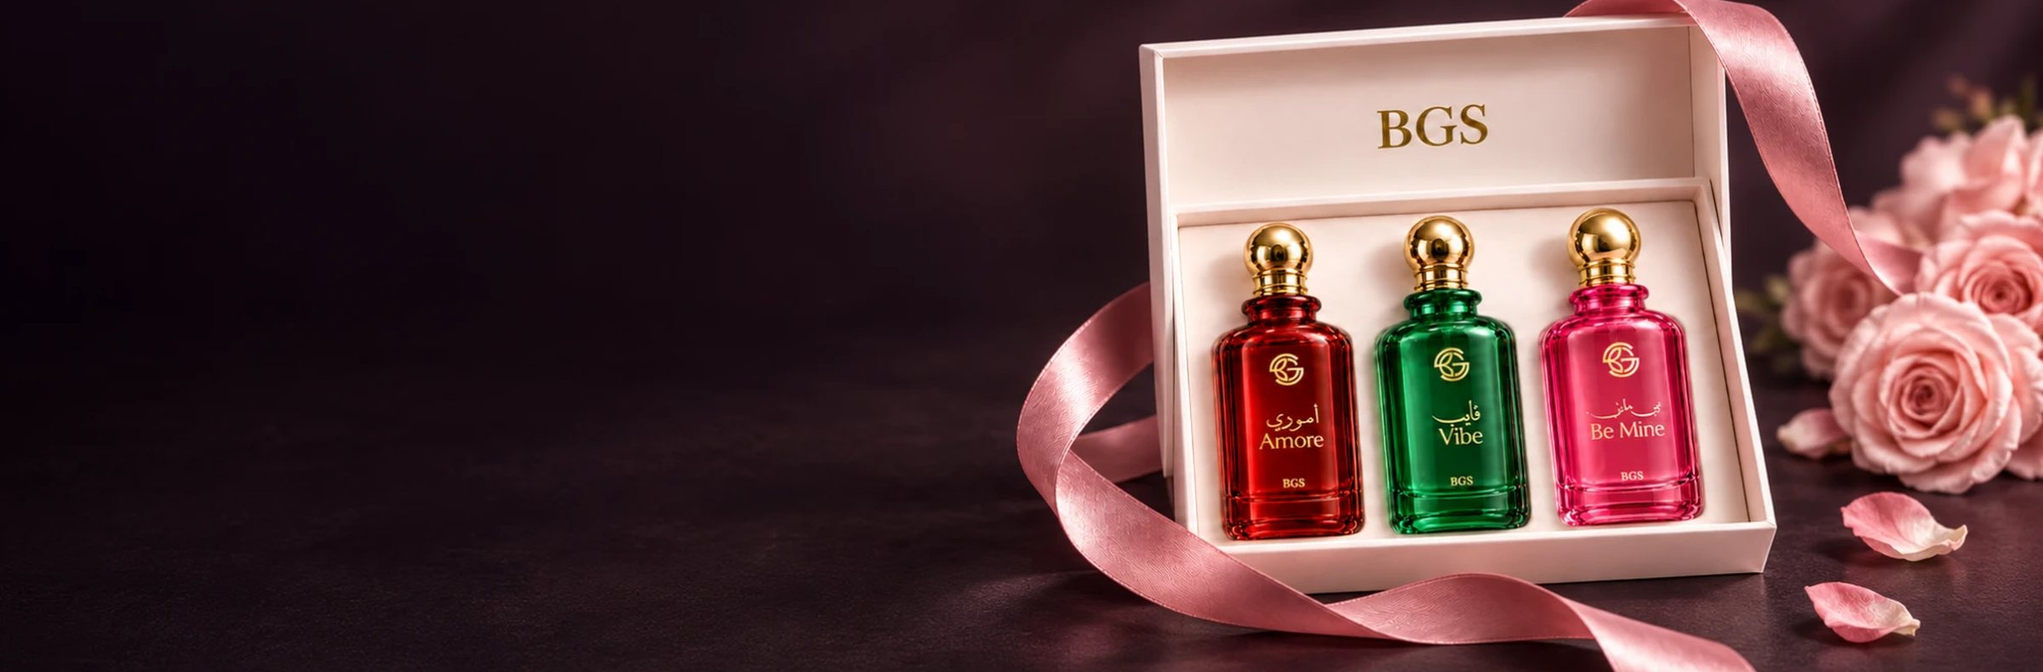
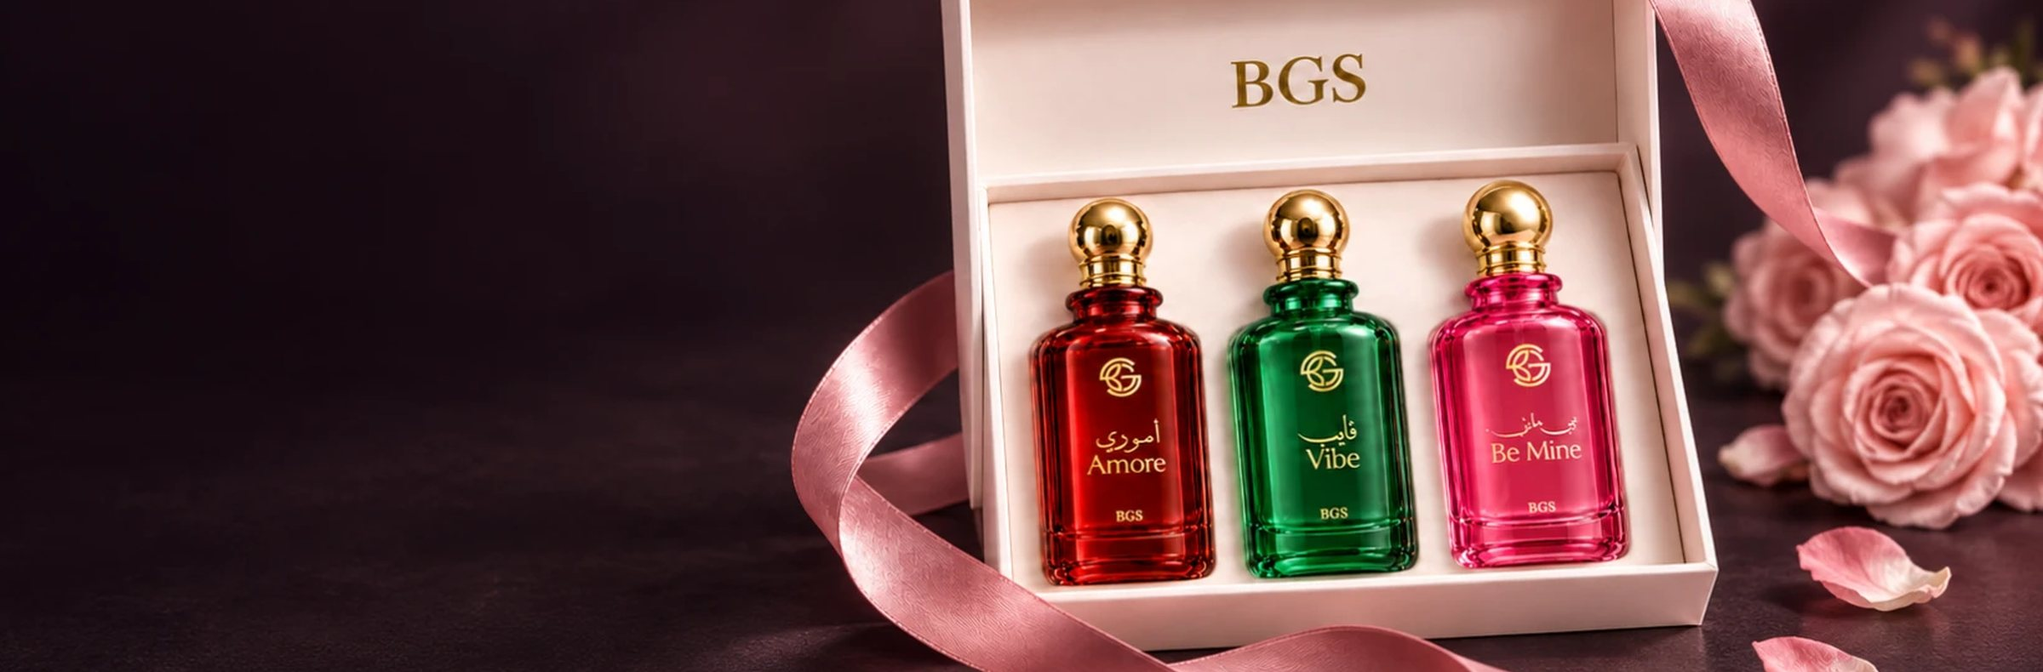
Build the overlapping-card phone hero, with the product centred in it
Direction 3 of the five. The photograph runs full bleed and the copy sits in a
card inset 16px that climbs 40px into the bottom of it. The overlap is the
point: it buys depth while the copy stays on a solid ground at 18.5:1, so
nothing needs re-measuring when a light photograph is added - which is what the
scrim approach demanded, and what put the Platinum Musk frame at 3.42:1.

CENTRING THE PRODUCT
The band shows 61% of a 3.04:1 frame, so where the window sits decides where
the product lands, and the product is not in the same place twice. Focus is
per slide again - it was removed two commits ago when the geometry made all
five identical, and this band makes them differ.

Solving it off the full frame was wrong: the measured centre shifts once the
crop excludes the background outside the window, which left banner-4 10.4% and
banner-5 7.1% right of centre. Focus is now solved against the crop each value
actually produces. Result: 0.0%, -0.1%, 2.3%, 2.4%, 2.8% off centre.

Two frames could not be centred at any focus - their products sat too far right
in the asset for the window to reach - so banner-4 and banner-5 were rebuilt
with 360px and 200px cropped off the source's left, which is empty ground. The
phone does not need that ground because the card carries the copy, and desktop
still does not reach the product: it now starts at 48% and 52% against a text
box ending at 44.2%, and desktop contrast holds at 5.65:1 and 5.35:1.

FITTING IT
[…]

diff --git a/flow/index.html b/flow/index.html
@@ -13,7 +13,7 @@
 <link rel="icon" type="image/png" sizes="32x32" href="assets/img/favicon-32.png">
 <link rel="icon" type="image/png" sizes="16x16" href="assets/img/favicon-16.png">
 <link rel="apple-touch-icon" href="assets/img/apple-touch-icon.png">
-<link rel="stylesheet" href="assets/flow.css?v=7adc376e"></head><body class="page-index">
+<link rel="stylesheet" href="assets/flow.css?v=e4a4df3e"></head><body class="page-index">
 <div class="strip"><div class="wrap">
   <span><svg width="13" height="13" viewBox="0 0 24 24" fill="none" stroke="currentColor" stroke-width="2" stroke-linecap="round"><circle cx="12" cy="12" r="9"/><path d="M12 7v5l3 2"/></svg> Order by 2:00 PM for delivery today in Dubai &middot; <b>3h 47m</b></span>
   <span class="r"><span>Free UAE delivery over AED 150</span><span>Cash on delivery</span><a href="track-order.html">Track order</a><a href="#" data-langtoggle>العربية</a></span>
@@ -32,7 +32,7 @@
 
 
 <div class="hero" data-carousel>
-  <div class="heroimg"><img class="hs on" src="assets/img/banner-2.jpg" alt="The BGS oud oil range with its leather case" width="2400" height="790" fetchpriority="high" decoding="async"><img class="hs" src="assets/img/banner-5.jpg" alt="Platinum Musk Oud boxed and ribboned" width="2400" height="790" loading="lazy" decoding="async"><img class="hs" src="assets/img/banner-1.jpg" alt="A BGS oud oil" width="2400" height="790" loading="lazy" decoding="async"><img class="hs" src="assets/img/banner-4.jpg" alt="The Amore, Vibe and Be Mine trio in a wrapped box" width="2400" height="790" loading="lazy" decoding="async"><img class="hs" src="assets/img/banner-3.jpg" alt="Majlis Oud in 6 ml and 12 ml crystal" width="2400" height="790" loading="lazy" decoding="async"><span class="none corner"><b data-slideno>1</b>/5</span></div>
+  <div class="heroimg"><img class="hs on" src="assets/img/banner-2.jpg" alt="The BGS oud oil range with its leather case" width="2400" height="790" style="--focus:93%" fetchpriority="high" decoding="async"><img class="hs" src="assets/img/banner-5.jpg" alt="Platinum Musk Oud boxed and ribboned" width="2400" height="790" style="--focus:100%" loading="lazy" decoding="async"><img class="hs" src="assets/img/banner-1.jpg" alt="A BGS oud oil" width="2400" height="790" style="--focus:90%" loading="lazy" decoding="async"><img class="hs" src="assets/img/banner-4.jpg" alt="The Amore, Vibe and Be Mine trio in a wrapped box" width="2400" height="790" style="--focus:100%" loading="lazy" decoding="async"><img class="hs" src="assets/img/banner-3.jpg" alt="Majlis Oud in 6 ml and 12 ml crystal" width="2400" height="790" style="--focus:100%" loading="lazy" decoding="async"><span class="none corner"><b data-slideno>1</b>/5</span></div>
   <div class="over slide on" data-slide><div class="wrap"><div class="box"><span class="eyebrow gold">Blended in Dubai · alcohol-free ouds</span><h1>Find your scent.</h1><p>Eleven house ouds in 3 ml and 6 ml, Reserve oud, bakhoor and EDP sprays.</p><div style="display:flex;gap:10px;flex-wrap:wrap"><a class="btn gold" href="collection.html">Shop ouds</a><a class="btn ghost" href="gift-box.html">Build a gift box</a></div></div></div></div><div class="over slide" data-slide><div class="wrap"><div class="box"><span class="eyebrow gold">Order by 2:00 PM</span><h1>Delivered today<br>in Dubai.</h1><p>Same-day across Dubai for AED 25. Standard delivery is free over AED 150.</p><div style="display:flex;gap:10px;flex-wrap:wrap"><a class="btn gold" href="collection.html?cat=oud-oils">Shop ready today</a><a class="btn ghost" href="track-order.html">Delivery info</a></div></div></div></div><div class="over slide" data-slide><div class="wrap"><div class="box"><span class="eyebrow gold">Start here</span><h1>Discovery Trio,<br>AED 129.</h1><p>Three 3 ml ouds. What you spend comes back as credit on your first full bottle.</p><div style="display:flex;gap:10px;flex-wrap:wrap"><a class="btn gold" href="gift-box.html">Choose three</a><a class="btn ghost" href="gift-box.html">See all sets</a></div></div></div></div><div class="over slide" data-slide><div class="wrap"><div class="box"><span class="eyebrow gold">Gifting</span><h1>Three scents,<br>one wrapped box.</h1><p>Add a handwritten card and a recorded message. Prices never show on a gift receipt.</p><div style="display:flex;gap:10px;flex-wrap:wrap"><a class="btn gold" href="gift-box.html">Build a gift box</a><a class="btn ghost" href="corporate.html">Corporate gifting</a></div></div></div></div><div class="over slide" data-slide><div class="wrap"><div class="box"><span class="eyebrow gold">Reserve</span><h1>Never<br>discounted.</h1><p>Majlis OUD and Platinum Musk sit outside every discount the shop runs.</p><div style="display:flex;gap:10px;flex-wrap:wrap"><a class="btn gold" href="collection.html?cat=reserve">See Reserve</a><a class="btn ghost" href="index.html">Our story</a></div></div></div></div>
   <button class="arrow prev" data-prev aria-label="Previous slide"><svg width="22" height="22" viewBox="0 0 24 24" fill="none" stroke="currentColor" stroke-width="2" stroke-linecap="round"><path d="M15 5l-7 7 7 7"/></svg></button>
   <button class="arrow next" data-next aria-label="Next slide"><svg width="22" height="22" viewBox="0 0 24 24" fill="none" stroke="currentColor" stroke-width="2" stroke-linecap="round"><path d="M9 5l7 7-7 7"/></svg></button>
@@ -207,5 +207,5 @@
 </div><div class="bot"><span>&copy; 2026 BGS Corner General Trading LLC</span>
 <span>Cards &middot; Apple Pay &middot; Tabby &middot; Tamara &middot; Cash on delivery</span></div></div></footer>
 <div class="tabbar"><a href="index.html" class="on">Home</a><a href="collection.html">Shop</a><a href="gift-box.html">Gifts</a><a href="cart.html">Bag</a><a href="account.html">Account</a></div>
-<script src="assets/catalogue.js?v=7adc376e"></script>
-<script src="assets/shop.js?v=7adc376e"></script></body></html>
+<script src="assets/catalogue.js?v=e4a4df3e"></script>
+<script src="assets/shop.js?v=e4a4df3e"></script></body></html>

diff --git a/flow/assets/flow.css b/flow/assets/flow.css
@@ -1422,3 +1422,39 @@ footer .slot,footer .soon{color:#b9b0a4}
      rather than leaving "OUDS" alone on the second. */
   .hero .over .eyebrow{text-wrap:balance}
 }
+
+/* ---- phone hero: the overlapping card ------------------------------------
+   Chosen from five directions. The photograph runs full bleed and the copy
+   sits in a card that climbs 40px into the bottom of it.
+
+   The overlap is the whole point: it buys depth and a clear hierarchy while
+   the copy stays on a solid ground at 18.5:1, so nothing has to be measured
+   again when a light photograph is added - which is what the scrim approach
+   demanded, and what put the Platinum Musk frame at 3.42:1.
+
+   Full bleed on the phone, so the hero drops its side margin and radius here.
+
+   The window is 49% of the frame, and the product is aimed into the middle of
+   it per slide - see hero_images() in build.py. */
+@media (max-width:900px){
+  .hero{min-height:0;margin:0;border:0;border-radius:0;background:var(--alt)}
+  /* width:100% is load-bearing: with aspect-ratio and a max-height, an auto
+     width shrinks to keep the ratio once the height is capped, which left a
+     485px band inside a 768px tablet. Fixed width, capped height, and
+     object-fit crops the difference. */
+  .heroimg{position:relative;inset:auto;width:100%;height:auto;min-height:0;
+    aspect-ratio:1.85/1;max-height:min(42vh,262px)}
+  .heroimg img{object-position:var(--focus,80%) center}
+
+  .hero .over{position:relative;inset:auto;z-index:2;display:none;
+    margin:-40px 16px 0;padding:0;background:var(--secondary);
+    border-radius:var(--r)}
+  .hero .over.on{display:block}
+  .hero .over .wrap{padding:0;width:auto}
+  .hero .box{max-width:none;padding:14px 17px 14px}
+  .hero h1{font-size:26px;margin:5px 0 8px}
+  .hero p{font-size:13px;margin-bottom:13px}
+
+  /* the dots land on the paper the card sits on, not on the card */
+  .dots{background:var(--alt);padding:9px 0 11px}
+}

diff --git a/flow/track-order.html b/flow/track-order.html
@@ -13,7 +13,7 @@
 <link rel="icon" type="image/png" sizes="32x32" href="assets/img/favicon-32.png">
 <link rel="icon" type="image/png" sizes="16x16" href="assets/img/favicon-16.png">
 <link rel="apple-touch-icon" href="assets/img/apple-touch-icon.png">
-<link rel="stylesheet" href="assets/flow.css?v=7adc376e"></head><body class="page-track-order">
+<link rel="stylesheet" href="assets/flow.css?v=e4a4df3e"></head><body class="page-track-order">
 <div class="strip"><div class="wrap">
   <span><svg width="13" height="13" viewBox="0 0 24 24" fill="none" stroke="currentColor" stroke-width="2" stroke-linecap="round"><circle cx="12" cy="12" r="9"/><path d="M12 7v5l3 2"/></svg> Order by 2:00 PM for delivery today in Dubai &middot; <b>3h 47m</b></span>
   <span class="r"><span>Free UAE delivery over AED 150</span><span>Cash on delivery</span><a href="track-order.html">Track order</a><a href="#" data-langtoggle>العربية</a></span>
@@ -59,5 +59,5 @@
 </div><div class="bot"><span>&copy; 2026 BGS Corner General Trading LLC</span>
 <span>Cards &middot; Apple Pay &middot; Tabby &middot; Tamara &middot; Cash on delivery</span></div></div></footer>
 <div class="tabbar"><a href="index.html" class="on">Home</a><a href="collection.html">Shop</a><a href="gift-box.html">Gifts</a><a href="cart.html">Bag</a><a href="account.html">Account</a></div>
-<script src="assets/catalogue.js?v=7adc376e"></script>
-<script src="assets/shop.js?v=7adc376e"></script></body></html>
+<script src="assets/catalogue.js?v=e4a4df3e"></script>
+<script src="assets/shop.js?v=e4a4df3e"></script></body></html>

diff --git a/flow/collection.html b/flow/collection.html
@@ -13,7 +13,7 @@
 <link rel="icon" type="image/png" sizes="32x32" href="assets/img/favicon-32.png">
 <link rel="icon" type="image/png" sizes="16x16" href="assets/img/favicon-16.png">
 <link rel="apple-touch-icon" href="assets/img/apple-touch-icon.png">
-<link rel="stylesheet" href="assets/flow.css?v=7adc376e"></head><body class="page-collection">
+<link rel="stylesheet" href="assets/flow.css?v=e4a4df3e"></head><body class="page-collection">
 <div class="strip"><div class="wrap">
   <span><svg width="13" height="13" viewBox="0 0 24 24" fill="none" stroke="currentColor" stroke-width="2" stroke-linecap="round"><circle cx="12" cy="12" r="9"/><path d="M12 7v5l3 2"/></svg> Order by 2:00 PM for delivery today in Dubai &middot; <b>3h 47m</b></span>
   <span class="r"><span>Free UAE delivery over AED 150</span><span>Cash on delivery</span><a href="track-order.html">Track order</a><a href="#" data-langtoggle>العربية</a></span>
@@ -78,5 +78,5 @@
 </div><div class="bot"><span>&copy; 2026 BGS Corner General Trading LLC</span>
 <span>Cards &middot; Apple Pay &middot; Tabby &middot; Tamara &middot; Cash on delivery</span></div></div></footer>
 <div class="tabbar"><a href="index.html">Home</a><a href="collection.html" class="on">Shop</a><a href="gift-box.html">Gifts</a><a href="cart.html">Bag</a><a href="account.html">Account</a></div>
-<script src="assets/catalogue.js?v=7adc376e"></script>
-<script src="assets/shop.js?v=7adc376e"></script></body></html>
+<script src="assets/catalogue.js?v=e4a4df3e"></script>
+<script src="assets/shop.js?v=e4a4df3e"></script></body></html>

diff --git a/flow/confirmed.html b/flow/confirmed.html
@@ -13,7 +13,7 @@
 <link rel="icon" type="image/png" sizes="32x32" href="assets/img/favicon-32.png">
 <link rel="icon" type="image/png" sizes="16x16" href="assets/img/favicon-16.png">
 <link rel="apple-touch-icon" href="assets/img/apple-touch-icon.png">
-<link rel="stylesheet" href="assets/flow.css?v=7adc376e"></head><body class="page-confirmed">
+<link rel="stylesheet" href="assets/flow.css?v=e4a4df3e"></head><body class="page-confirmed">
 <div class="strip"><div class="wrap">
   <span><svg width="13" height="13" viewBox="0 0 24 24" fill="none" stroke="currentColor" stroke-width="2" stroke-linecap="round"><circle cx="12" cy="12" r="9"/><path d="M12 7v5l3 2"/></svg> Order by 2:00 PM for delivery today in Dubai &middot; <b>3h 47m</b></span>
   <span class="r"><span>Free UAE delivery over AED 150</span><span>Cash on delivery</span><a href="track-order.html">Track order</a><a href="#" data-langtoggle>العربية</a></span>
@@ -57,5 +57,5 @@
 </div><div class="bot"><span>&copy; 2026 BGS Corner General Trading LLC</span>
 <span>Cards &middot; Apple Pay &middot; Tabby &middot; Tamara &middot; Cash on delivery</span></div></div></footer>
 <div class="tabbar"><a href="index.html">Home</a><a href="collection.html">Shop</a><a href="gift-box.html">Gifts</a><a href="cart.html" class="on">Bag</a><a href="account.html">Account</a></div>
-<script src="assets/catalogue.js?v=7adc376e"></script>
-<script src="assets/shop.js?v=7adc376e"></script></body></html>
+<script src="assets/catalogue.js?v=e4a4df3e"></script>
+<script src="assets/shop.js?v=e4a4df3e"></script></body></html>

diff --git a/flow/corporate.html b/flow/corporate.html
@@ -13,7 +13,7 @@
 <link rel="icon" type="image/png" sizes="32x32" href="assets/img/favicon-32.png">
 <link rel="icon" type="image/png" sizes="16x16" href="assets/img/favicon-16.png">
 <link rel="apple-touch-icon" href="assets/img/apple-touch-icon.png">
-<link rel="stylesheet" href="assets/flow.css?v=7adc376e"></head><body class="page-corporate">
+<link rel="stylesheet" href="assets/flow.css?v=e4a4df3e"></head><body class="page-corporate">
 <div class="strip"><div class="wrap">
   <span><svg width="13" height="13" viewBox="0 0 24 24" fill="none" stroke="currentColor" stroke-width="2" stroke-linecap="round"><circle cx="12" cy="12" r="9"/><path d="M12 7v5l3 2"/></svg> Order by 2:00 PM for delivery today in Dubai &middot; <b>3h 47m</b></span>
   <span class="r"><span>Free UAE delivery over AED 150</span><span>Cash on delivery</span><a href="track-order.html">Track order</a><a href="#" data-langtoggle>العربية</a></span>
@@ -59,5 +59,5 @@
 </div><div class="bot"><span>&copy; 2026 BGS Corner General Trading LLC</span>
 <span>Cards &middot; Apple Pay &middot; Tabby &middot; Tamara &middot; Cash on delivery</span></div></div></footer>
 <div class="tabbar"><a href="index.html" class="on">Home</a><a href="collection.html">Shop</a><a href="gift-box.html">Gifts</a><a href="cart.html">Bag</a><a href="account.html">Account</a></div>
-<script src="assets/catalogue.js?v=7adc376e"></script>
-<script src="assets/shop.js?v=7adc376e"></script></body></html>
+<script src="assets/catalogue.js?v=e4a4df3e"></script>
+<script src="assets/shop.js?v=e4a4df3e"></script></body></html>

diff --git a/flow/account.html b/flow/account.html
@@ -13,7 +13,7 @@
 <link rel="icon" type="image/png" sizes="32x32" href="assets/img/favicon-32.png">
 <link rel="icon" type="image/png" sizes="16x16" href="assets/img/favicon-16.png">
 <link rel="apple-touch-icon" href="assets/img/apple-touch-icon.png">
-<link rel="stylesheet" href="assets/flow.css?v=7adc376e"></head><body class="page-account">
+<link rel="stylesheet" href="assets/flow.css?v=e4a4df3e"></head><body class="page-account">
 <div class="strip"><div class="wrap">
   <span><svg width="13" height="13" viewBox="0 0 24 24" fill="none" stroke="currentColor" stroke-width="2" stroke-linecap="round"><circle cx="12" cy="12" r="9"/><path d="M12 7v5l3 2"/></svg> Order by 2:00 PM for delivery today in Dubai &middot; <b>3h 47m</b></span>
   <span class="r"><span>Free UAE delivery over AED 150</span><span>Cash on delivery</span><a href="track-order.html">Track order</a><a href="#" data-langtoggle>العربية</a></span>
@@ -129,5 +129,5 @@
 </div><div class="bot"><span>&copy; 2026 BGS Corner General Trading LLC</span>
 <span>Cards &middot; Apple Pay &middot; Tabby &middot; Tamara &middot; Cash on delivery</span></div></div></footer>
 <div class="tabbar"><a href="index.html">Home</a><a href="collection.html">Shop</a><a href="gift-box.html">Gifts</a><a href="cart.html">Bag</a><a href="account.html" class="on">Account</a></div>
-<script src="assets/catalogue.js?v=7adc376e"></script>
-<script src="assets/shop.js?v=7adc376e"></script></body></html>
+<script src="assets/catalogue.js?v=e4a4df3e"></script>
+<script src="assets/shop.js?v=e4a4df3e"></script></body></html>

diff --git a/flow/checkout.html b/flow/checkout.html
@@ -13,7 +13,7 @@
 <link rel="icon" type="image/png" sizes="32x32" href="assets/img/favicon-32.png">
 <link rel="icon" type="image/png" sizes="16x16" href="assets/img/favicon-16.png">
 <link rel="apple-touch-icon" href="assets/img/apple-touch-icon.png">
-<link rel="stylesheet" href="assets/flow.css?v=7adc376e"></head><body class="page-checkout">
+<link rel="stylesheet" href="assets/flow.css?v=e4a4df3e"></head><body class="page-checkout">
 <div class="strip"><div class="wrap">
   <span><svg width="13" height="13" viewBox="0 0 24 24" fill="none" stroke="currentColor" stroke-width="2" stroke-linecap="round"><circle cx="12" cy="12" r="9"/><path d="M12 7v5l3 2"/></svg> Order by 2:00 PM for delivery today in Dubai &middot; <b>3h 47m</b></span>
   <span class="r"><span>Free UAE delivery over AED 150</span><span>Cash on delivery</span><a href="track-order.html">Track order</a><a href="#" data-langtoggle>العربية</a></span>
@@ -69,5 +69,5 @@
 </div><div class="bot"><span>&copy; 2026 BGS Corner General Trading LLC</span>
 <span>Cards &middot; Apple Pay &middot; Tabby &middot; Tamara &middot; Cash on delivery</span></div></div></footer>
 <div class="tabbar"><a href="index.html">Home</a><a href="collection.html">Shop</a><a href="gift-box.html">Gifts</a><a href="cart.html" class="on">Bag</a><a href="account.html">Account</a></div>
-<script src="assets/catalogue.js?v=7adc376e"></script>
-<script src="assets/shop.js?v=7adc376e"></script></body></html>
+<script src="assets/catalogue.js?v=e4a4df3e"></script>
+<script src="assets/shop.js?v=e4a4df3e"></script></body></html>

diff --git a/flow/gift-box.html b/flow/gift-box.html
@@ -13,7 +13,7 @@
 <link rel="icon" type="image/png" sizes="32x32" href="assets/img/favicon-32.png">
 <link rel="icon" type="image/png" sizes="16x16" href="assets/img/favicon-16.png">
 <link rel="apple-touch-icon" href="assets/img/apple-touch-icon.png">
-<link rel="stylesheet" href="assets/flow.css?v=7adc376e"></head><body class="page-gift-box">
+<link rel="stylesheet" href="assets/flow.css?v=e4a4df3e"></head><body class="page-gift-box">
 <div class="strip"><div class="wrap">
   <span><svg width="13" height="13" viewBox="0 0 24 24" fill="none" stroke="currentColor" stroke-width="2" stroke-linecap="round"><circle cx="12" cy="12" r="9"/><path d="M12 7v5l3 2"/></svg> Order by 2:00 PM for delivery today in Dubai &middot; <b>3h 47m</b></span>
   <span class="r"><span>Free UAE delivery over AED 150</span><span>Cash on delivery</span><a href="track-order.html">Track order</a><a href="#" data-langtoggle>العربية</a></span>
@@ -99,5 +99,5 @@
 </div><div class="bot"><span>&copy; 2026 BGS Corner General Trading LLC</span>
 <span>Cards &middot; Apple Pay &middot; Tabby &middot; Tamara &middot; Cash on delivery</span></div></div></footer>
 <div class="tabbar"><a href="index.html">Home</a><a href="collection.html">Shop</a><a href="gift-box.html" class="on">Gifts</a><a href="cart.html">Bag</a><a href="account.html">Account</a></div>
-<script src="assets/catalogue.js?v=7adc376e"></script>
-<script src="assets/shop.js?v=7adc376e"></script></body></html>
+<script src="assets/catalogue.js?v=e4a4df3e"></script>
+<script src="assets/shop.js?v=e4a4df3e"></script></body></html>

diff --git a/flow/product.html b/flow/product.html
@@ -13,7 +13,7 @@
 <link rel="icon" type="image/png" sizes="32x32" href="assets/img/favicon-32.png">
 <link rel="icon" type="image/png" sizes="16x16" href="assets/img/favicon-16.png">
 <link rel="apple-touch-icon" href="assets/img/apple-touch-icon.png">
-<link rel="stylesheet" href="assets/flow.css?v=7adc376e"></head><body class="page-product">
+<link rel="stylesheet" href="assets/flow.css?v=e4a4df3e"></head><body class="page-product">
 <div class="strip"><div class="wrap">
   <span><svg width="13" height="13" viewBox="0 0 24 24" fill="none" stroke="currentColor" stroke-width="2" stroke-linecap="round"><circle cx="12" cy="12" r="9"/><path d="M12 7v5l3 2"/></svg> Order by 2:00 PM for delivery today in Dubai &middot; <b>3h 47m</b></span>
   <span class="r"><span>Free UAE delivery over AED 150</span><span>Cash on delivery</span><a href="track-order.html">Track order</a><a href="#" data-langtoggle>العربية</a></span>
@@ -166,5 +166,5 @@
 </div><div class="bot"><span>&copy; 2026 BGS Corner General Trading LLC</span>
 <span>Cards &middot; Apple Pay &middot; Tabby &middot; Tamara &middot; Cash on delivery</span></div></div></footer>
 <div class="tabbar"><a href="index.html">Home</a><a href="collection.html" class="on">Shop</a><a href="gift-box.html">Gifts</a><a href="cart.html">Bag</a><a href="account.html">Account</a></div>
-<script src="assets/catalogue.js?v=7adc376e"></script>
-<script src="assets/shop.js?v=7adc376e"></script></body></html>
+<script src="assets/catalogue.js?v=e4a4df3e"></script>
+<script src="assets/shop.js?v=e4a4df3e"></script></body></html>

diff --git a/flow/quiz.html b/flow/quiz.html
@@ -13,7 +13,7 @@
 <link rel="icon" type="image/png" sizes="32x32" href="assets/img/favicon-32.png">
 <link rel="icon" type="image/png" sizes="16x16" href="assets/img/favicon-16.png">
 <link rel="apple-touch-icon" href="assets/img/apple-touch-icon.png">
-<link rel="stylesheet" href="assets/flow.css?v=7adc376e"></head><body class="page-quiz">
+<link rel="stylesheet" href="assets/flow.css?v=e4a4df3e"></head><body class="page-quiz">
 <div class="strip"><div class="wrap">
   <span><svg width="13" height="13" viewBox="0 0 24 24" fill="none" stroke="currentColor" stroke-width="2" stroke-linecap="round"><circle cx="12" cy="12" r="9"/><path d="M12 7v5l3 2"/></svg> Order by 2:00 PM for delivery today in Dubai &middot; <b>3h 47m</b></span>
   <span class="r"><span>Free UAE delivery over AED 150</span><span>Cash on delivery</span><a href="track-order.html">Track order</a><a href="#" data-langtoggle>العربية</a></span>
@@ -150,5 +150,5 @@
 </div><div class="bot"><span>&copy; 2026 BGS Corner General Trading LLC</span>
 <span>Cards &middot; Apple Pay &middot; Tabby &middot; Tamara &middot; Cash on delivery</span></div></div></footer>
 <div class="tabbar"><a href="index.html" class="on">Home</a><a href="collection.html">Shop</a><a href="gift-box.html">Gifts</a><a href="cart.html">Bag</a><a href="account.html">Account</a></div>
-<script src="assets/catalogue.js?v=7adc376e"></script>
-<script src="assets/shop.js?v=7adc376e"></script></body></html>
+<script src="assets/catalogue.js?v=e4a4df3e"></script>
+<script src="assets/shop.js?v=e4a4df3e"></script></body></html>

diff --git a/flow/cart.html b/flow/cart.html
@@ -13,7 +13,7 @@
 <link rel="icon" type="image/png" sizes="32x32" href="assets/img/favicon-32.png">
 <link rel="icon" type="image/png" sizes="16x16" href="assets/img/favicon-16.png">
 <link rel="apple-touch-icon" href="assets/img/apple-touch-icon.png">
-<link rel="stylesheet" href="assets/flow.css?v=7adc376e"></head><body class="page-cart">
+<link rel="stylesheet" href="assets/flow.css?v=e4a4df3e"></head><body class="page-cart">
 <div class="strip"><div class="wrap">
   <span><svg width="13" height="13" viewBox="0 0 24 24" fill="none" stroke="currentColor" stroke-width="2" stroke-linecap="round"><circle cx="12" cy="12" r="9"/><path d="M12 7v5l3 2"/></svg> Order by 2:00 PM for delivery today in Dubai &middot; <b>3h 47m</b></span>
   <span class="r"><span>Free UAE delivery over AED 150</span><span>Cash on delivery</span><a href="track-order.html">Track order</a><a href="#" data-langtoggle>العربية</a></span>
@@ -69,5 +69,5 @@
 </div><div class="bot"><span>&copy; 2026 BGS Corner General Trading LLC</span>
 <span>Cards &middot; Apple Pay &middot; Tabby &middot; Tamara &middot; Cash on delivery</span></div></div></footer>
 <div class="tabbar"><a href="index.html">Home</a><a href="collection.html">Shop</a><a href="gift-box.html">Gifts</a><a href="cart.html" class="on">Bag</a><a href="account.html">Account</a></div>
-<script src="assets/catalogue.js?v=7adc376e"></script>
-<script src="assets/shop.js?v=7adc376e"></script></body></html>
+<script src="assets/catalogue.js?v=e4a4df3e"></script>
+<script src="assets/shop.js?v=e4a4df3e"></script></body></html>
